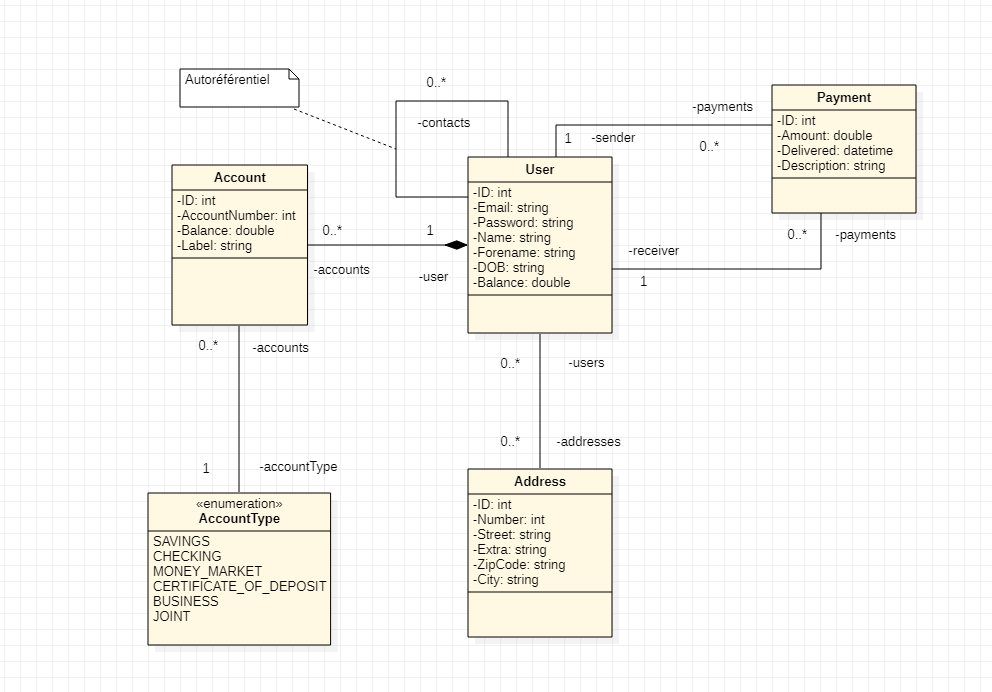
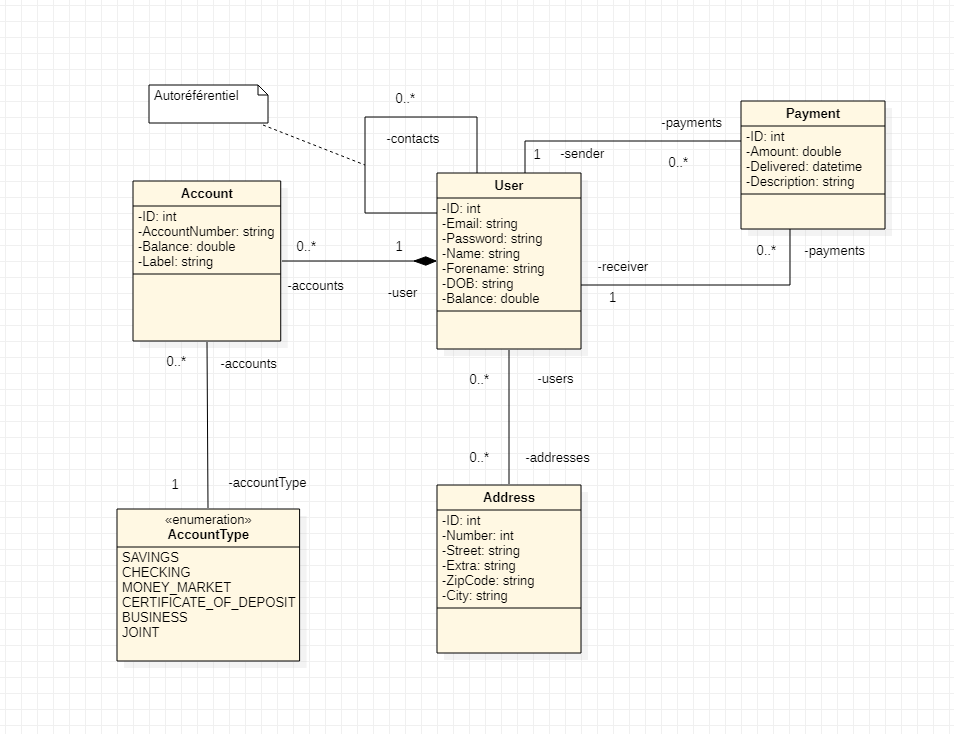
business data hotfix

diff --git a/src/main/java/com/openclassrooms/newenpoi/pmb/controller/InitController.java b/src/main/java/com/openclassrooms/newenpoi/pmb/controller/InitController.java
@@ -47,18 +47,18 @@ public class InitController implements CommandLineRunner {
 		if (addressDao.count() == 0) generateAddresses();
 		
 		// Créér des comptes bidon.
-		if (accountDao.count() == 0) generateAccounts();
+		// if (accountDao.count() == 0) generateAccounts();
 		
 		// Créér des utilisateurs bidon.
 		if (userDao.count() == 0) generateUsers();
 		
 		// Générer des paiements bidon.
-		if (paymentDao.count() == 0) generatePayments();
+		// if (paymentDao.count() == 0) generatePayments();
 	}
 	
 	public void generateAccounts() {
-		accountDao.save(new Account(faker.number().numberBetween(100000, 800000), faker.number().randomDouble(2, 5, 3000)));
-		accountDao.save(new Account(faker.number().numberBetween(100000, 800000), faker.number().randomDouble(2, 5, 3000)));
+		accountDao.save(new Account("Init Controller 001", "Init Controller", faker.number().randomDouble(2, 5, 3000)));
+		accountDao.save(new Account("Init Controller 002", "Init Controller", faker.number().randomDouble(2, 5, 3000)));
 	}
 	
 	public void generateAddresses() {		
@@ -76,24 +76,17 @@ public class InitController implements CommandLineRunner {
 		for (int i = 0; i < USER_AMOUNT; i++) {
 			String name = faker.name().lastName();
 			String forename = faker.name().firstName();
-			String email = String.format("%s.%s@gmail.com", name, forename);
+			String email = String.format("%s.%s@gmail.com", name, forename).toLowerCase();
 			String password = faker.internet().password();
 			LocalDate dob = faker.date().birthday(18, 70).toInstant().atZone(ZoneId.systemDefault()).toLocalDate();
-			double balance = faker.number().randomDouble(2, 1000, 3000);
 			
-			User u = new User(email, password, name, forename, dob, balance);
+			User u = new User(email, password, name, forename, dob);
 			
 			u.setAddresses(Arrays.asList(addressDao.findById(Long.valueOf(i + 1)).orElse(null)));
 			u.setAccounts(Arrays.asList(accountDao.findById(Long.valueOf(i + 1)).orElse(null)));
 			
 			users.add(u);
 		}
-		
-		users = userDao.saveAll(users);
-		
-		// adds contacts for the first user.
-		users.get(0).getContacts().add(users.get(1));
-		users.get(0).getContacts().add(users.get(2));
 		
 		userDao.saveAll(users);
 	}

diff --git a/src/main/java/com/openclassrooms/newenpoi/pmb/business/Account.java b/src/main/java/com/openclassrooms/newenpoi/pmb/business/Account.java
@@ -30,7 +30,7 @@ public class Account {
 	 * Considère dans le cadre de l'exercice que ceci est par exemple son iban.
 	 */
 	@Column(name = "numero_compte", unique = true)
-    private int accountNumber;
+    private String accountNumber;
 	
 	private String label;
 
@@ -45,10 +45,14 @@ public class Account {
     @JoinColumn(name = "utilisateur_id")
     private User user;
     
-    public Account(int accountNumber, double balance) {
-    	this.accountType = AccountType.CHECKING;
-    	
+    public Account(String accountNumber, String label) {
     	this.accountNumber = accountNumber;
+    	this.label = label;
+    	this.accountType = AccountType.CHECKING;
+    }
+    
+    public Account(String accountNumber, String label, double balance) {
+    	this(accountNumber, label);
     	this.balance = balance;
     }
 }

diff --git a/src/main/java/com/openclassrooms/newenpoi/pmb/business/User.java b/src/main/java/com/openclassrooms/newenpoi/pmb/business/User.java
@@ -84,12 +84,12 @@ public class User {
     @JoinTable(name = "user_roles", joinColumns = @JoinColumn(name = "user_id"), inverseJoinColumns = @JoinColumn(name = "role_id"))
     private Collection<Role> roles;
 
-	public User(String email, String password, String name, String forename, LocalDate dob, double balance) {
+	public User(String email, String password, String name, String forename, LocalDate dob) {
 		this.email = email;
 		this.password = password;
 		this.name = name;
 		this.forename = forename;
 		this.dob = dob;
-		this.balance = balance;
+		this.balance = 0;
 	}
 }
